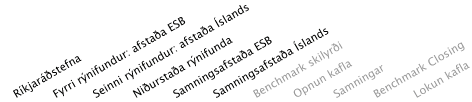
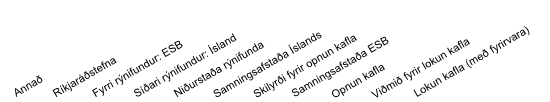
IE and other fixes for main areas, also Stada vidraedna table and image fixed

Changed region(s): [[0.0, 0.0294, 1.0, 0.9706], [0.8602, 0.7647, 0.9492, 0.9706], [0.9195, 0.6176, 1.0, 0.7647]]

diff --git a/public/stylesheets/style.css b/public/stylesheets/style.css
@@ -67,7 +67,7 @@ h5 {				font-size: 11px;  }
 					border: 1px solid #bcbcbc; border-left: 1px dashed #bcbcbc; }
 
 					
-#content {			padding:5px; margin-top:25px;  }
+#content {			padding:5px; margin-top:5px;  }
 					
 					
 					/* Content boxið*/
@@ -117,7 +117,7 @@ h5 {				font-size: 11px;  }
 #subfilters b {	 color: #666;}
 
 /*		Entries				*/
-.entry_box {		min-height: 43px; height: 37px !ie; line-height: 150%; margin-bottom: 5px; padding:10px 0 10px 6px; border-top: 1px solid #f1f1f1;   width: 584px;}
+.entry_box {		min-height: 43px; height: 37px !ie; line-height: 150%; margin-bottom: 1px; padding:15px 0 0px 6px; border-top: 1px solid #f1f1f1;   width: 584px;}
 .entry_box h4 {		margin:0px;}
 .entry_box h5 {		width: 570px;}
 .entry_box img {	margin: 0px 5px 0px 0px; }
@@ -128,7 +128,7 @@ h5 {				font-size: 11px;  }
 .entry_profile {	 }
 
 .comment_box {		background-color: #F1F1F1; border-left:1px solid #ECECEC; border-right:1px solid #ECECEC;  border-bottom:1px solid #E2E2E2; min-height: 34px; line-height: 120%; padding:5px; margin: 0px 5px 10px 60px; height: 34px !ie;}
-.comment_box_samn {	border:1px solid #cbd4d7; line-height: 120%; padding:5px; margin: 0px 5px 10px 10px; }
+.comment_box_samn {	border:1px solid #cbd4d7; line-height: 120%; padding:5px; margin: 0px 5px 10px 60px; }
 .comment_box a:hover {	color: #1461ac;  }
 .comment_profile {	margin: 0px 5px 0px 0px;}
 .comment_box img {	margin-right:5px; border: none !Important}
@@ -145,7 +145,7 @@ margin-left: 50px;
 
 .readmore {			margin: 0 2px;  }
 
-.answer_box {		margin-left: 10px; padding-bottom: 10px;  }
+.answer_box {		margin-left: 11px; padding-bottom: 10px;  }
 
 input, textarea {	border: 1px solid #9da7c1; height:18px; padding:0px 5px;   }
 
@@ -252,7 +252,7 @@ input.chapter {		margin:0px 1px 0px 0px; padding:0px; }
 {
 float:left;	
 /*padding: 3px 5px 5px 0; */
-margin-right: 3px;
+margin-right: 5px;
 }
 
 .addthis_toolbox
@@ -269,4 +269,37 @@ float:right;
 #Content p b 
 {
 font-weight: normal;	
+}
+
+
+.merkt, .files_x1 , .files_x2, .files_x3, .files_x4
+{
+	width: 36px;
+} 
+
+.tom
+{
+width: 200px;
+}
+
+.merkt {
+	border: 1px solid #eee !important;
+} 
+.files_x1 {
+	background-color: #CCC !important;
+}
+.files_x2 {
+	background-color: #999 !important;
+}
+.files_x3 {
+	background-color: #666 !important;
+}
+.files_x4 {
+	background-color: #444 !important;
+}
+
+.profile_image
+{
+border: 1px #669 solid;
+
 }
